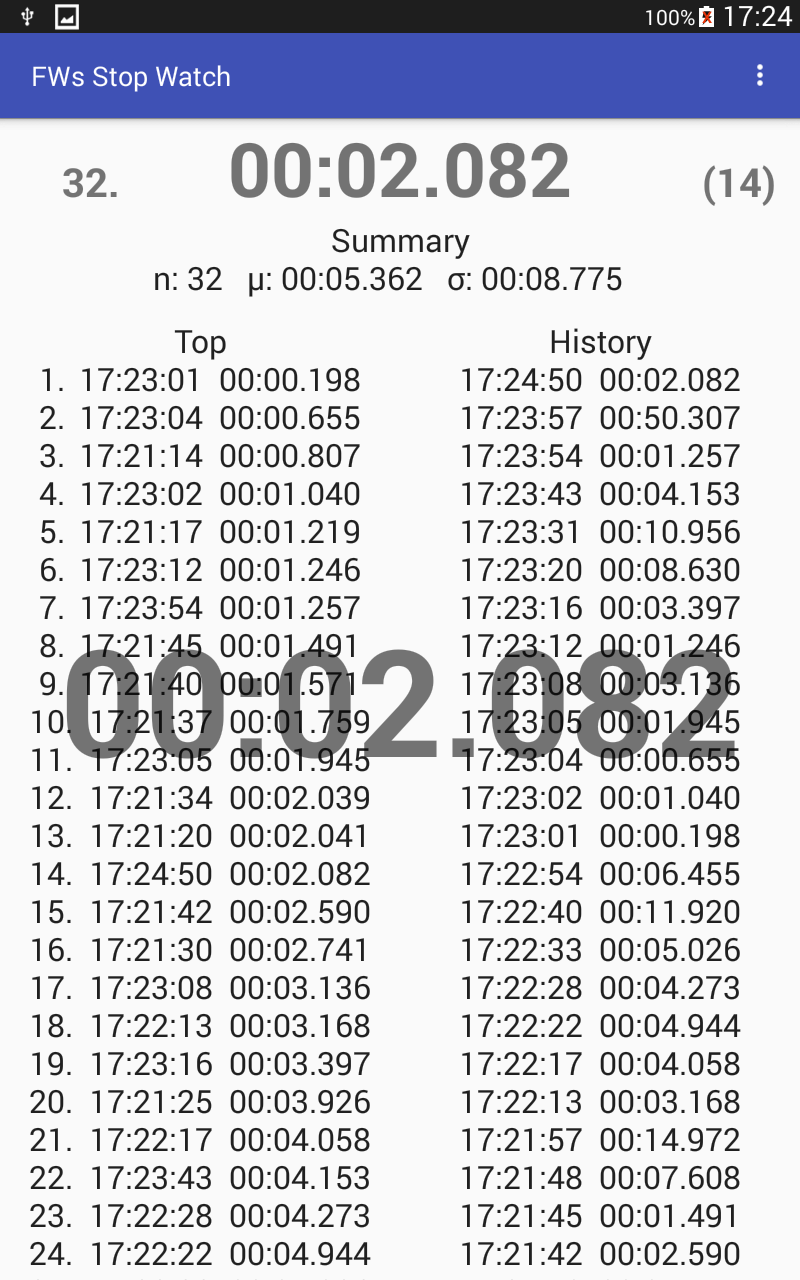
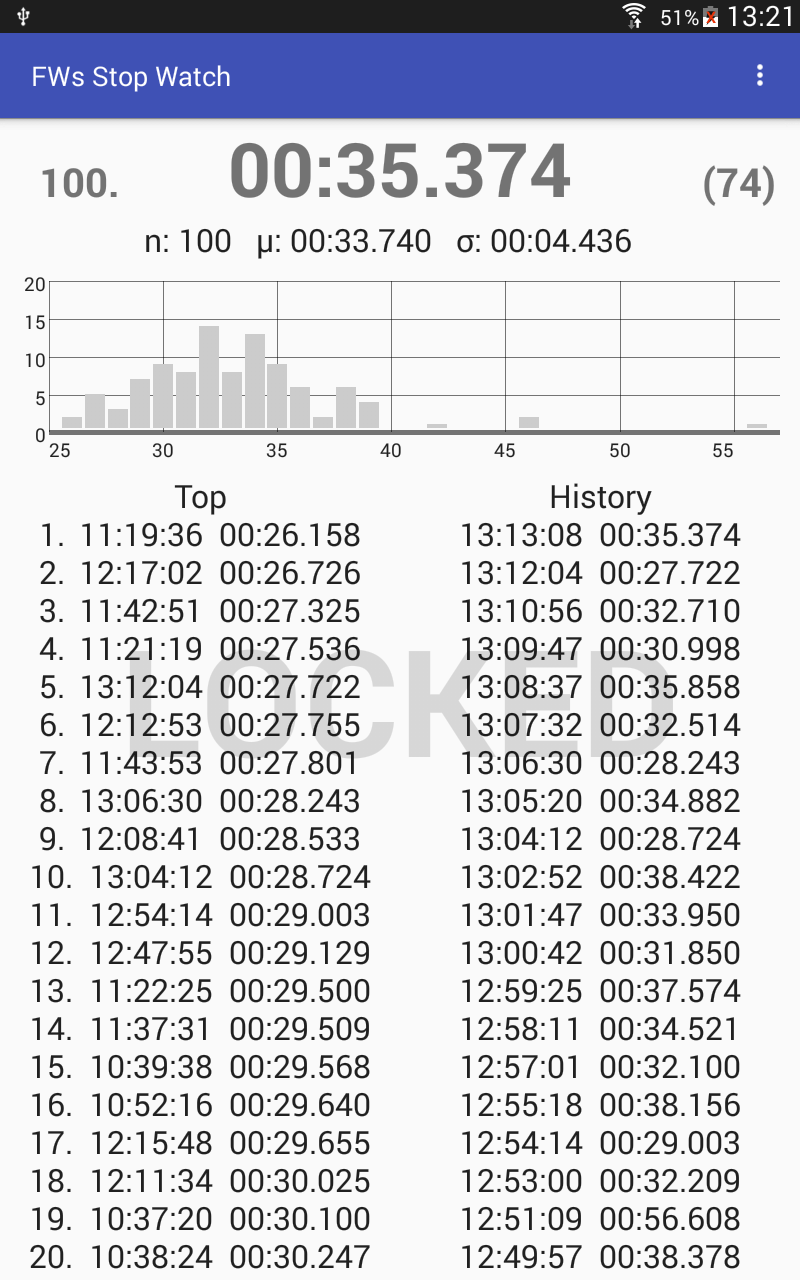
fet: added histogram

diff --git a/app/src/main/kotlin/com/fw/android/stw/activity/MainActivity.kt b/app/src/main/kotlin/com/fw/android/stw/activity/MainActivity.kt
@@ -21,6 +21,12 @@ import com.fw.android.stw.service.SummaryStatistics
 import com.fw.android.stw.service.formatTime
 import com.fw.generic.api.statemachine.StateMachine
 import com.fw.generic.api.statemachine.StateMachine.T
+import com.jjoe64.graphview.series.LineGraphSeries
+import com.jjoe64.graphview.GraphView
+import com.jjoe64.graphview.series.BarGraphSeries
+import com.jjoe64.graphview.series.DataPoint
+import java.util.Random
+
 
 class MainActivity : AppCompatActivity() {
 
@@ -43,6 +49,7 @@ class MainActivity : AppCompatActivity() {
     private var topView: TextView? = null
     private var historyView: TextView? = null
     private var mp: MediaPlayer? = null
+    private var graphView: GraphView? = null
 
     private val buttonSTM = StateMachine<ButtonState, Int, View>(
             IDLE,
@@ -65,7 +72,6 @@ class MainActivity : AppCompatActivity() {
                 Log.i(LOG_TAG, "buttonSTM: RUNNING -> IDLE")
                 STWService.stop()
                 stopTimer()
-                //view.playSoundEffect(android.view.SoundEffectConstants.CLICK)
                 playSound(R.raw.s2)
                 mainLayout?.setBackgroundColor(COLOR_IDLE)
                 mainTextView?.text = formatTime(STWService.runtime())
@@ -125,6 +131,7 @@ class MainActivity : AppCompatActivity() {
         summaryView = findViewById(R.id.summaryView) as TextView
         topView = findViewById(R.id.text2) as TextView
         historyView = findViewById(R.id.text3) as TextView
+        graphView = findViewById(R.id.graph) as GraphView
     }
 
     override fun onCreateOptionsMenu(menu: Menu): Boolean {
@@ -256,6 +263,7 @@ class MainActivity : AppCompatActivity() {
         countTextView?.text = formatCount(STWService.currentCount())
         rankTextView?.text = formatRank(STWService.rank())
         summaryView?.text = formatSummary(STWService.summary())
+        drawHistogram(STWService.top)
         historyView?.text = formatHistory(STWService.history, n)
         topView?.text = formatTop(STWService.top, n)
         (findViewById(R.id.left_scroll_view) as ScrollView).scrollTo(0, 0)
@@ -268,11 +276,36 @@ class MainActivity : AppCompatActivity() {
 
     private fun formatSummary(summary: SummaryStatistics): String {
         val sb = StringBuilder()
-        sb.append(getString(R.string.stw_stats_summary)).append("\n")
+        //sb.append(getString(R.string.stw_stats_summary)).append("   ")
         sb.append("n: ").append(summary.n).append("   ")
         sb.append("µ: ").append(formatTime(summary.mean.toLong())).append("   ")
         sb.append("σ: ").append(formatTime(summary.sigma.toLong())).append("   ")
         return sb.toString()
+    }
+
+    private fun drawHistogram(top: Collection<STW>) {
+        val tmin: Double = if (top.isEmpty()) 0.0 else -1.0 + top.first().time/1000
+        val tmax: Double = if (top.isEmpty()) 1.0 else 1.0 + top.last().time/1000
+        val hist = top.map { Math.floor(it.time/1000.0) }.groupBy { it }.map { DataPoint(it.key, it.value.size.toDouble()) }
+
+        Log.i(LOG_TAG, "tmin=$tmin")
+        Log.i(LOG_TAG, "tmax=$tmax")
+        Log.i(LOG_TAG, "hist=$hist")
+
+        val series = BarGraphSeries<DataPoint>(hist.toTypedArray())
+        series.spacing = 10;
+        series.color = Color.LTGRAY
+
+        graphView?.apply {
+            removeAllSeries()
+            addSeries(series)
+            viewport?.apply {
+                isXAxisBoundsManual = true
+                setMinX(tmin)
+                setMaxX(tmax)
+                setMinY(0.0)
+            }
+        }
     }
 
     private fun formatTop(top: Collection<STW>, n: Int): String {
